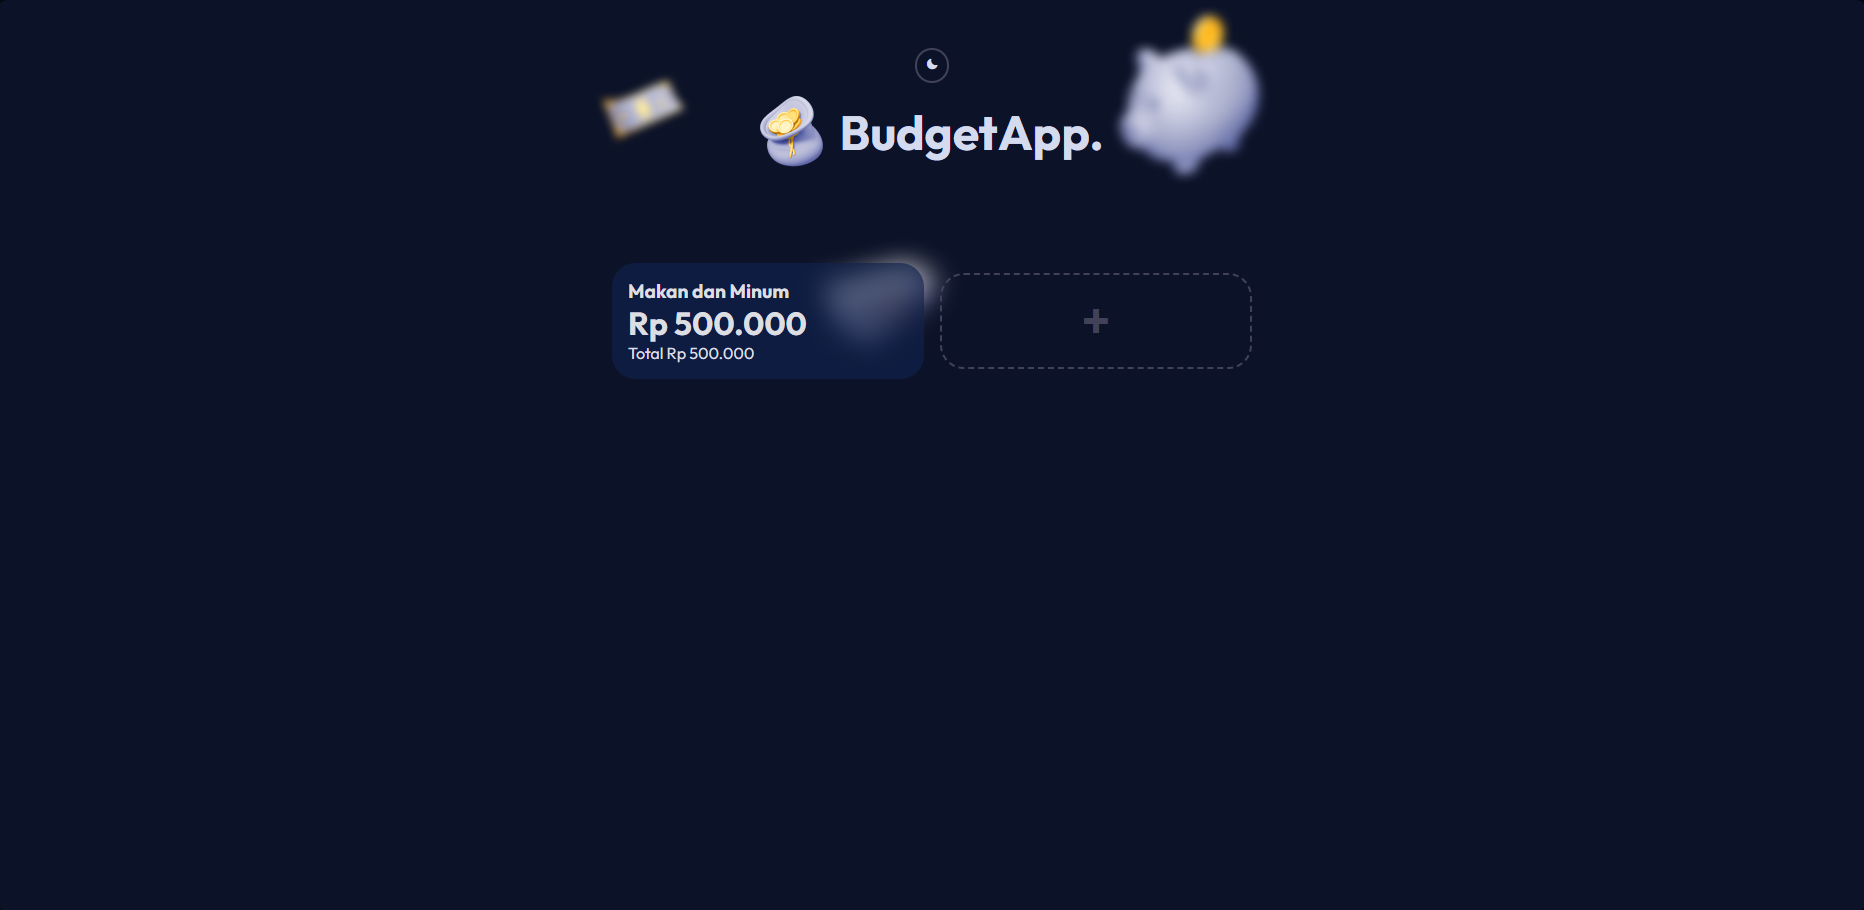
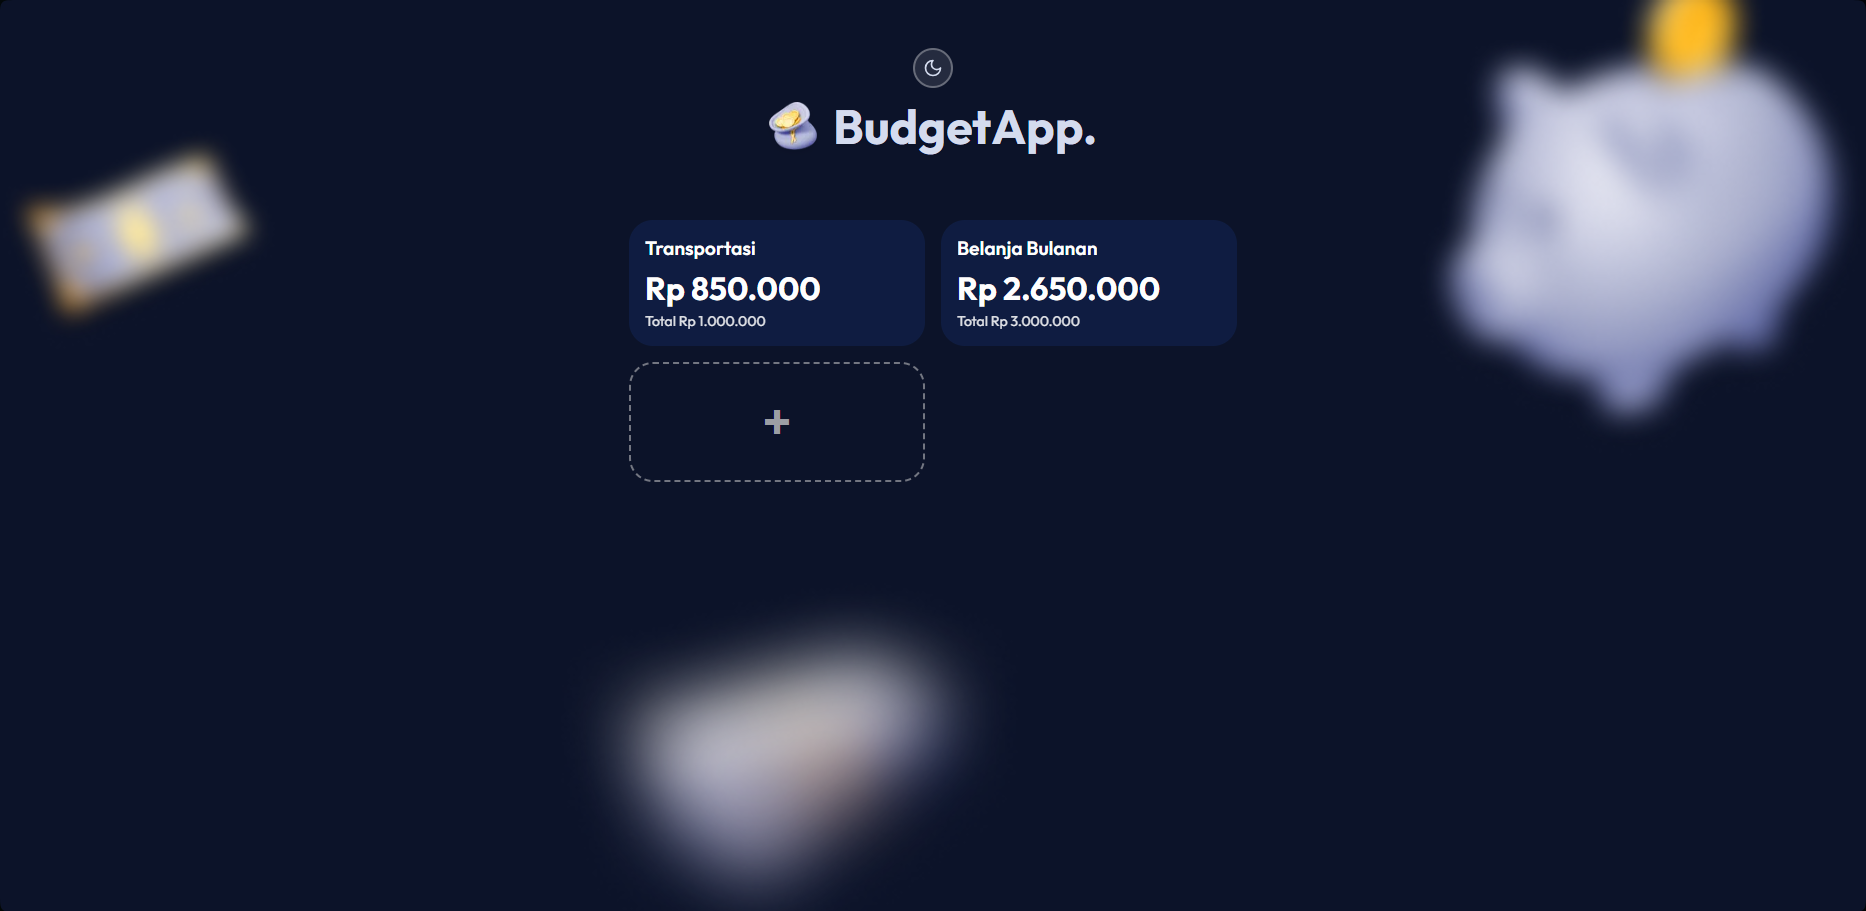
Update Project

diff --git a/index.html b/index.html
@@ -655,8 +655,8 @@
                 </div>
                 <div class="tag">
                   <img
-                      src="src/Skill/mysql-logo-pure.svg"
-                      alt="SQL"
+                      src="src/Skill/postgresql.svg"
+                      alt="PostgreSQL"
                     />
                 </div>
               </div>
@@ -751,6 +751,12 @@
                       alt="typescript"
                     />
                 </div>
+                <div class="tag">
+                  <img
+                      src="src/Skill/postgresql.svg"
+                      alt="postgresql"
+                    />
+                </div>
               </div>
             </div>
           </div>
@@ -824,7 +830,7 @@
               <img src="src/Project/Budget.png" alt="BudgetApp" />
               <div class="project-links-overlay">
                 <a
-                  href="https://budget-3p8m5m7uo-frezix0s-projects.vercel.app"
+                  href="https://budget-next-js-five.vercel.app/"
                   class="project-link"
                   target="_blank"
                   rel="noopener"
@@ -837,7 +843,7 @@
                   </svg>
                 </a>
                 <a
-                  href="https://github.com/frezix0/Budget-App"
+                  href="https://github.com/frezix0/BudgetNextJs"
                   class="project-link"
                   target="_blank"
                   rel="noopener"
@@ -855,47 +861,33 @@
               <h4>BudgetApp.</h4>
               <p>
                 Personal finance tracker and expense analyzer built for simplicity and insight.
-                Developed with HTML5, CSS3, and JavaScript, featuring local data storage.
-                Will be built using a more modern framework, stay tuned!
+                Developed with Next.js with TypeScript, featuring PostgreSQL as database. Helping you record expenses, manage budgets, and monitor finances 
+                easily in one place.
               </p>
 
               <div class="tech-tags">
                 <div class="tag">
-                <svg
-                  role="img"
-                  aria-label="HTML5"
-                  viewBox="0 0 24 24"
-                  fill="#E34F26"
-                >
-                  <path
-                    d="M1.5 0h21l-1.91 21.563L11.977 24l-8.565-2.438L1.5 0zm7.031 9.75-.232-2.718 10.059.003.23-2.622L5.412 4.41l.698 8.01h9.126l-.326 3.426-2.91.804-2.955-.81-.188-2.11H6.248l.33 4.171L12 19.351l5.379-1.443.744-8.157H8.531z"
-                  />
-                </svg>
+                  <img
+                      src="src/Skill/nextjs-icon-svgrepo-com.svg"
+                      alt="NextJs"
+                    />
                 </div>
-                  <div class="tag">
-                    <svg
-                    role="img"
-                    aria-label="CSS3"
-                    viewBox="0 0 24 24"
-                    fill="#1572B6"
-                    xmlns="http://www.w3.org/2000/svg"
-                    >
-                      <path 
-                        d="M1.5 0h21l-1.91 21.563L11.977 24l-8.565-2.438L1.5 0zm17.078 4.41H5.412l.232 2.622h10.059l-.23 2.622H6.562l.326 3.426h8.578l-.326 3.426-2.91.804-2.955-.81-.188-2.11H6.248l.33 4.171L12 19.351l5.379-1.443.744-8.157H8.531l-.232-2.718h10.279l.232-2.623z" 
-                      />
-                    </svg>
-
-                  </div>
-                  <div class="tag">
-                    <svg
+                <div class="tag">
+                  <img
+                      src="src/Skill/typescript.svg"
+                      alt="typescript"
+                    />
+                </div>
+                <div class="tag">
+                  <svg
                       viewBox="0 0 24 24"
-                      fill="#F7DF1E"
+                      fill="#38B2AC"
                     >
                       <path
-                        d="M0 0h24v24H0V0zm22.034 18.276c-.175-1.095-.888-2.015-3.003-2.873-.736-.345-1.554-.585-1.797-1.14-.091-.33-.105-.51-.046-.705.15-.646.915-.84 1.515-.66.39.12.75.42.976.9 1.034-.676 1.034-.676 1.755-1.125-.27-.42-.404-.601-.586-.78-.63-.705-1.469-1.065-2.834-1.034l-.705.089c-.676.165-1.32.525-1.71 1.005-1.14 1.291-.811 3.541.569 4.471 1.365 1.02 3.361 1.244 3.616 2.205.24 1.17-.87 1.545-1.966 1.41-.811-.18-1.26-.586-1.755-1.336l-1.83 1.051c.21.48.45.689.81 1.109 1.74 1.756 6.09 1.666 6.871-1.004.029-.09.24-.705.074-1.65l.046.067zm-8.983-7.245h-2.248c0 1.938-.009 3.864-.009 5.805 0 1.232.063 2.363-.138 2.711-.33.689-1.18.601-1.566.48-.396-.196-.597-.466-.83-.855-.063-.105-.11-.196-.127-.196l-1.825 1.125c.305.63.75 1.172 1.324 1.517.855.51 2.004.675 3.207.405.783-.226 1.458-.691 1.811-1.411.51-.93.402-2.07.397-3.346.012-2.054 0-4.109 0-6.179l.004-.056z"
+                        d="M12.001,4.8c-3.2,0-5.2,1.6-6,4.8c1.2-1.6,2.6-2.2,4.2-1.8c0.913,0.228,1.565,0.89,2.288,1.624 C13.666,10.618,15.027,12,18.001,12c3.2,0,5.2-1.6,6-4.8c-1.2,1.6-2.6,2.2-4.2,1.8c-0.913-0.228-1.565-0.89-2.288-1.624 C16.337,6.182,14.976,4.8,12.001,4.8z M6.001,12c-3.2,0-5.2,1.6-6,4.8c1.2-1.6,2.6-2.2,4.2-1.8c0.913,0.228,1.565,0.89,2.288,1.624 c1.177,1.194,2.538,2.576,5.512,2.576c3.2,0,5.2-1.6,6-4.8c-1.2,1.6-2.6,2.2-4.2,1.8c-0.913-0.228-1.565-0.89-2.288-1.624 C10.337,13.382,8.976,12,6.001,12z"
                       />
                     </svg>
-                  </div>
+                </div>
               </div>
             </div>
           </div>
